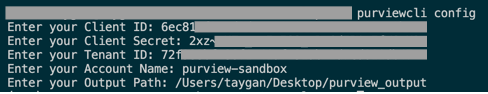
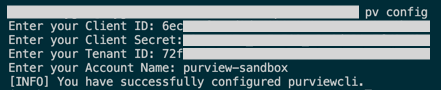
slim

diff --git a/purviewcli/cli.py b/purviewcli/cli.py
@@ -2,61 +2,61 @@
 """purviewcli
 
 Usage:
-  purviewcli config
-  purviewcli [csv | json] search (--keywords=<keywords>) [--limit=<limit> --offset=<offset>]
-  purviewcli [csv | json] getEntityAudit (--guid=<guid>) [--auditAction=<auditAction> --count=<count> --startKey=<startKey>]
-  purviewcli [csv | json] getEntityBulk (--guid=<guid>...) [--ignoreRelationships --minExtInfo]
-  purviewcli [csv | json] getEntityBulkHeaders [--tagUpdateStartTime=<tagUpdateStartTime>]
-  purviewcli [csv | json] getEntityBulkUniqueAttributeType (--typeName=<typeName>) [--ignoreRelationships --minExtInfo]
-  purviewcli [csv | json] getEntityBusinessmetadataImportTemplate
-  purviewcli [csv | json] getEntityGuid (--guid=<guid>) [--ignoreRelationships --minExtInfo]
-  purviewcli [csv | json] getEntityGuidClassification (--guid=<guid> --classificationName=<classificationName>)
-  purviewcli [csv | json] getEntityGuidClassifications (--guid=<guid>)
-  purviewcli [csv | json] getEntityGuidHeader (--guid=<guid>)
-  purviewcli [csv | json] getEntityUniqueAttributeType (--typeName=<typeName> --attrKey=<attrKey> --attrVal=<attrVal>) [--ignoreRelationships --minExtInfo]
-  purviewcli [csv | json] getEntityUniqueAttributeTypeHeader (--typeName=<typeName> --attrKey=<attrKey> --attrVal=<attrVal>)
-  purviewcli [csv | json] getGlossary [--glossaryGuid=<glossaryGuid>] [--limit=<limit> --offset=<offset> --sort=<sort>]
-  purviewcli [csv | json] getGlossaryCategories (--glossaryGuid=<glossaryGuid>) [--limit=<limit> --offset=<offset> --sort=<sort>]
-  purviewcli [csv | json] getGlossaryCategoriesHeaders (--glossaryGuid=<glossaryGuid>) [--limit=<limit> --offset=<offset> --sort=<sort>]
-  purviewcli [csv | json] getGlossaryCategory (--categoryGuid=<categoryGuid>)
-  purviewcli [csv | json] getGlossaryCategoryRelated (--categoryGuid=<categoryGuid>) [--limit=<limit> --offset=<offset> --sort=<sort>]
-  purviewcli [csv | json] getGlossaryCategoryTerms (--categoryGuid=<categoryGuid>) [--limit=<limit> --offset=<offset> --sort=<sort>]
-  purviewcli [csv | json] getGlossaryDetailed (--glossaryGuid=<glossaryGuid>)
-  purviewcli [csv | json] getGlossaryTerm (--termGuid=<termGuid>)
-  purviewcli [csv | json] newGlossaryTerm (--termName=<termName> --termStatus=<termStatus>) [--termDescription=<termDescription> --termAcronym=<termAcronym> --synonym=<synonym>... --related=<related>...]
-  purviewcli [csv | json] getGlossaryTerms (--glossaryGuid=<glossaryGuid>) [--limit=<limit> --offset=<offset> --sort=<sort>]
-  purviewcli [csv | json] getGlossaryTermsAssignedEntities (--termGuid=<termGuid>) [--limit=<limit> --offset=<offset> --sort=<sort>]
-  purviewcli [csv | json] getGlossaryTermsHeaders (--glossaryGuid=<glossaryGuid>) [--limit=<limit> --offset=<offset> --sort=<sort>]
-  purviewcli [csv | json] getGlossaryTermsRelated (--termGuid=<termGuid>) [--limit=<limit> --offset=<offset> --sort=<sort>]
-  purviewcli [csv | json] getLineage (--guid=<guid>) [--depth=<depth> --width=<width> --direction=<direction> --forceNewApi --includeParent --getDerivedLineage]
-  purviewcli [csv | json] getLineageUniqueAttributeType (--typeName=<typeName>) [--depth=<depth> --direction=<direction>]
-  purviewcli [csv | json] getRelationshipGuid (--guid=<guid>) [--extendedInfo]
-  purviewcli [csv | json] getBusinessmetadatadef (--guid=<guid> | --name=<name>)
-  purviewcli [csv | json] getClassificationdef (--guid=<guid> | --name=<name>)
-  purviewcli [csv | json] getEntitydef (--guid=<guid> | --name=<name>)
-  purviewcli [csv | json] getEnumdef (--guid=<guid> | --name=<name>)
-  purviewcli [csv | json] getRelationshipdef (--guid=<guid> | --name=<name>)
-  purviewcli [csv | json] getStructdef (--guid=<guid> | --name=<name>)
-  purviewcli [csv | json] getTypedef (--guid=<guid> | --name=<name>)
-  purviewcli [csv | json] getTypedefs
-  purviewcli [csv | json] getTypedefsHeaders
-  purviewcli [csv | json] getDatasources
-  purviewcli [csv | json] getDatasource (--datasource=<datasource>)
-  purviewcli [csv | json] getScans (--datasource=<datasource>)
-  purviewcli [csv | json] getScan (--datasource=<datasource> --scanName=<scanName>)
-  purviewcli [csv | json] getScanHistory (--datasource=<datasource> --scanName=<scanName>)
-  purviewcli [csv | json] getScanFilters (--datasource=<datasource> --scanName=<scanName>)
-  purviewcli [csv | json] runScan (--datasource=<datasource> --scanName=<scanName>) [--scanLevel=<scanLevel>]
-  purviewcli [csv | json] getSystemScanRulesets
-  purviewcli [csv | json] getSystemScanRulesetsSettings
-  purviewcli [csv | json] getScanRulesets
-  purviewcli [csv | json] getAssetDistributionByDataSource [--registeredSourceGroup=<registeredSourceGroup> --classificationCategory=<classificationCategory> --classificationName=<classificationName>]
-  purviewcli [csv | json] getAssetDistributionByTopPaths (--datasource=<datasource>) [--registeredSourceGroup=<registeredSourceGroup> --classificationCategory=<classificationCategory> --classificationName=<classificationName>]
-  purviewcli [csv | json] getFileTypeSizeTimeSeries (--fileType=<fileType> --window=<window>) [--registeredSourceGroup=<registeredSourceGroup> --datasource=<datasource>]
-  purviewcli [csv | json] getFileTypeSizeTrendByDataSource (--fileType=<fileType> --window=<window>) [--registeredSourceGroup=<registeredSourceGroup> --datasource=<datasource>]
-  purviewcli [csv | json] getTopFileTypesBySize [--registeredSourceGroup=<registeredSourceGroup> --datasource=<datasource>]
-  purviewcli [csv | json] getTopLevelSummary [--registeredSourceGroup=<registeredSourceGroup>]
-  purviewcli [csv | json] getRegisteredSourceGroupsWithAssets
+  pv config
+  pv search (--keywords=<keywords>) [--limit=<limit> --offset=<offset>]
+  pv getEntityAudit (--guid=<guid>) [--auditAction=<auditAction> --count=<count> --startKey=<startKey>]
+  pv getEntityBulk (--guid=<guid>...) [--ignoreRelationships --minExtInfo]
+  pv getEntityBulkHeaders [--tagUpdateStartTime=<tagUpdateStartTime>]
+  pv getEntityBulkUniqueAttributeType (--typeName=<typeName>) [--ignoreRelationships --minExtInfo]
+  pv getEntityBusinessmetadataImportTemplate
+  pv getEntityGuid (--guid=<guid>) [--ignoreRelationships --minExtInfo]
+  pv getEntityGuidClassification (--guid=<guid> --classificationName=<classificationName>)
+  pv getEntityGuidClassifications (--guid=<guid>)
+  pv getEntityGuidHeader (--guid=<guid>)
+  pv getEntityUniqueAttributeType (--typeName=<typeName> --attrKey=<attrKey> --attrVal=<attrVal>) [--ignoreRelationships --minExtInfo]
+  pv getEntityUniqueAttributeTypeHeader (--typeName=<typeName> --attrKey=<attrKey> --attrVal=<attrVal>)
+  pv getGlossary [--glossaryGuid=<glossaryGuid>] [--limit=<limit> --offset=<offset> --sort=<sort>]
+  pv getGlossaryCategories (--glossaryGuid=<glossaryGuid>) [--limit=<limit> --offset=<offset> --sort=<sort>]
+  pv getGlossaryCategoriesHeaders (--glossaryGuid=<glossaryGuid>) [--limit=<limit> --offset=<offset> --sort=<sort>]
+  pv getGlossaryCategory (--categoryGuid=<categoryGuid>)
+  pv getGlossaryCategoryRelated (--categoryGuid=<categoryGuid>) [--limit=<limit> --offset=<offset> --sort=<sort>]
+  pv getGlossaryCategoryTerms (--categoryGuid=<categoryGuid>) [--limit=<limit> --offset=<offset> --sort=<sort>]
+  pv getGlossaryDetailed (--glossaryGuid=<glossaryGuid>)
+  pv getGlossaryTerm (--termGuid=<termGuid>)
+  pv newGlossaryTerm (--termName=<termName> --termStatus=<termStatus>) [--termDescription=<termDescription> --termAcronym=<termAcronym> --synonym=<synonym>... --related=<related>...]
+  pv getGlossaryTerms (--glossaryGuid=<glossaryGuid>) [--limit=<limit> --offset=<offset> --sort=<sort>]
+  pv getGlossaryTermsAssignedEntities (--termGuid=<termGuid>) [--limit=<limit> --offset=<offset> --sort=<sort>]
+  pv getGlossaryTermsHeaders (--glossaryGuid=<glossaryGuid>) [--limit=<limit> --offset=<offset> --sort=<sort>]
+  pv getGlossaryTermsRelated (--termGuid=<termGuid>) [--limit=<limit> --offset=<offset> --sort=<sort>]
+  pv getLineage (--guid=<guid>) [--depth=<depth> --width=<width> --direction=<direction> --forceNewApi --includeParent --getDerivedLineage]
+  pv getLineageUniqueAttributeType (--typeName=<typeName>) [--depth=<depth> --direction=<direction>]
+  pv getRelationshipGuid (--guid=<guid>) [--extendedInfo]
+  pv getBusinessmetadatadef (--guid=<guid> | --name=<name>)
+  pv getClassificationdef (--guid=<guid> | --name=<name>)
+  pv getEntitydef (--guid=<guid> | --name=<name>)
+  pv getEnumdef (--guid=<guid> | --name=<name>)
+  pv getRelationshipdef (--guid=<guid> | --name=<name>)
+  pv getStructdef (--guid=<guid> | --name=<name>)
+  pv getTypedef (--guid=<guid> | --name=<name>)
+  pv getTypedefs
+  pv getTypedefsHeaders
+  pv getDatasources
+  pv getDatasource (--datasource=<datasource>)
+  pv getScans (--datasource=<datasource>)
+  pv getScan (--datasource=<datasource> --scanName=<scanName>)
+  pv getScanHistory (--datasource=<datasource> --scanName=<scanName>)
+  pv getScanFilters (--datasource=<datasource> --scanName=<scanName>)
+  pv runScan (--datasource=<datasource> --scanName=<scanName>) [--scanLevel=<scanLevel>]
+  pv getSystemScanRulesets
+  pv getSystemScanRulesetsSettings
+  pv getScanRulesets
+  pv getAssetDistributionByDataSource [--registeredSourceGroup=<registeredSourceGroup> --classificationCategory=<classificationCategory> --classificationName=<classificationName>]
+  pv getAssetDistributionByTopPaths (--datasource=<datasource>) [--registeredSourceGroup=<registeredSourceGroup> --classificationCategory=<classificationCategory> --classificationName=<classificationName>]
+  pv getFileTypeSizeTimeSeries (--fileType=<fileType> --window=<window>) [--registeredSourceGroup=<registeredSourceGroup> --datasource=<datasource>]
+  pv getFileTypeSizeTrendByDataSource (--fileType=<fileType> --window=<window>) [--registeredSourceGroup=<registeredSourceGroup> --datasource=<datasource>]
+  pv getTopFileTypesBySize [--registeredSourceGroup=<registeredSourceGroup> --datasource=<datasource>]
+  pv getTopLevelSummary [--registeredSourceGroup=<registeredSourceGroup>]
+  pv getRegisteredSourceGroupsWithAssets
 
 Options:
   -h --help                                         Show this screen.
@@ -72,13 +72,15 @@ Options:
   --width=<width>                                   Custom to Azure Purview [default: 6].
   --direction=<direction>                           INPUT or OUTPUT or BOTH [default: BOTH].
   --scanLevel=<scanLevel>                           Incremental or Full.
-  --registeredSourceGroup=<registeredSourceGroup>   Guardian.
   --classificationCategory=<classificationCategory> Guardian.
   --classificationName=<classificationName>         Guardian.
+  --registeredSourceGroup=<registeredSourceGroup>   Guardian.
+  --datasource=<datasource>                         Guardian.
   --fileType=<fileType>                             png or json or csv or xlsx.
   --window=<window>                                 7d or 30d.
 
 """
+import json
 from docopt import docopt
 from purviewcli import __version__
 from purviewcli import common
@@ -92,9 +94,8 @@ from purviewcli import scan
 from purviewcli import guardian
 
 def main():
-  # Initialise Arguments (docopt)
   args = docopt(__doc__, version=__version__)
-  # print(args)
+
   # Special Argument: config
   if args['config']:
     common.init_config()
@@ -102,7 +103,6 @@ def main():
     purview_api(args)
 
 def purview_api(args):
-  # Function Map
   function_map = {
     'getEntityAudit': entity.getEntityAudit,
     'getEntityBulk': entity.getEntityBulk,
@@ -164,8 +164,11 @@ def purview_api(args):
   command = common.selected_arg(args, function_map.keys())
   func = function_map[command]
   data = func(config, args)
-  fileformat = common.selected_arg(args, ['csv','json'])
-  common.export_data(data,command,fileformat,config)
+  
+  if len(data) > 0:
+    print(json.dumps(data, indent=4, sort_keys=True)) 
+  else:
+    print('No data found for %s.' % (command))
 
 if __name__ == '__main__':
   main()

diff --git a/purviewcli/common.py b/purviewcli/common.py
@@ -3,8 +3,6 @@ import os
 import configparser
 import json
 import requests
-from datetime import datetime
-from pandas import json_normalize
 
 CONFIG_FILEPATH = os.path.dirname(os.path.abspath(__file__)) + '/../config.ini'
 
@@ -25,7 +23,7 @@ def get_token(tenant_id, client_id, client_secret):
 
 def read_config():
     if not os.path.exists(CONFIG_FILEPATH):
-        sys.exit("[ERROR] Configuration file needs to be initialised. Run 'purviewcli config'.")
+        sys.exit("[ERROR] Configuration file needs to be initialised. Run 'pv config'.")
     config = configparser.ConfigParser()
     config.read(CONFIG_FILEPATH)
     return config
@@ -44,15 +42,14 @@ def init_config():
 
     # Configure (other)
     account_name = input('Enter your Account Name: ')
-    output_path = input('Enter your Output Path: ')
     config.add_section('purview_account')
     config.set('purview_account', 'account_name', account_name)
-    config.add_section('output')
-    config.set('output', 'output_path', output_path)
 
     # Write config
     with open(CONFIG_FILEPATH, 'w') as configfile:
         config.write(configfile)
+    
+    print('[INFO] You have successfully configured purviewcli.')
 
 def http_get(app, method, endpoint, params, payload, config):
     # Endpoint
@@ -84,28 +81,8 @@ def http_get(app, method, endpoint, params, payload, config):
         else:
             pass
 
-    data = response.content
+    data = json.loads(response.content)
     return data
-
-def export_data(data, interface, fileformat, config):
-    output_path = config['output']['output_path']
-    if not os.path.exists(output_path):
-        sys.exit("[ERROR] Output path: '%s' does not exist." % output_path)
-    timestamp = datetime.today().strftime('%Y%m%d%H%M%S')
-    filename = '{0}_{1}.{2}'.format(interface,timestamp,fileformat)
-    file_path = '%s/%s' % (output_path, filename)
-    
-    data_object = json.loads(data)
-    if fileformat == 'json':
-        with open(file_path, 'w') as outfile:
-            json.dump(data_object, outfile, indent=4)
-        print('[INFO] Successfully exported to: %s' % file_path)
-    elif fileformat == 'csv':
-        df = json_normalize(data_object)
-        df.to_csv(file_path, sep=',', encoding='utf-8', index=False)
-        print('[INFO] Successfully exported to: %s' % file_path)
-    else:
-        print(json.dumps(data_object, indent=4, sort_keys=True)) if len(data_object) > 0 else print('No data found for %s.' % (interface))
 
 def selected_arg(args, arg_list):
     selection = None

diff --git a/setup.py b/setup.py
@@ -18,7 +18,7 @@ setuptools.setup(
     author_email='contact@taygan.co',
     license='MIT',
     packages=setuptools.find_packages(),
-    install_requires = ['docopt','requests','pandas'],
+    install_requires = ['docopt','requests'],
     classifiers=[
         "Programming Language :: Python :: 3",
         "License :: OSI Approved :: MIT License",
@@ -26,7 +26,7 @@ setuptools.setup(
     ],
     entry_points={
         'console_scripts': [
-            'purviewcli = purviewcli.cli:main'
+            'pv = purviewcli.cli:main'
         ],
     }
 )

diff --git a/purviewcli/__init__.py b/purviewcli/__init__.py
@@ -1,1 +1,1 @@
-__version__ = "0.0.3"
+__version__ = "0.0.4"

diff --git a/README.md b/README.md
@@ -20,17 +20,16 @@ You will need the following to initialise the configuration file:
 * Client Secret
 * Tenant ID *(aka Directory ID)*
 * Azure Purview Account Name
-* Output Path *(e.g. Windows: C:/Users/username/Desktop Mac: /Users/username/Desktop)*
 
 To initiate the configuration, execute the following command.
 ```
-purviewcli config
+pv config
 ```
 ![config](https://raw.githubusercontent.com/tayganr/purviewcli/master/doc/image/purviewcli_config.png)
 
 ## Usage
 ```
-purviewcli command (mandatory parameters) [optional parameters]
+pv command (mandatory parameters) [optional parameters]
 ```
 
 ## Commands
@@ -111,14 +110,4 @@ getFileTypeSizeTrendByDataSource (--fileType=<fileType> --window=<window>) [--re
 getTopFileTypesBySize [--registeredSourceGroup=<registeredSourceGroup> --datasource=<datasource>]
 getTopLevelSummary [--registeredSourceGroup=<registeredSourceGroup>]
 getRegisteredSourceGroupsWithAssets
-```
-
-## Export to JSON
-```
-purviewcli json command (mandatory parameters) [optional parameters]
-```
-
-## Export to CSV
-```
-purviewcli csv command (mandatory parameters) [optional parameters]
 ```
